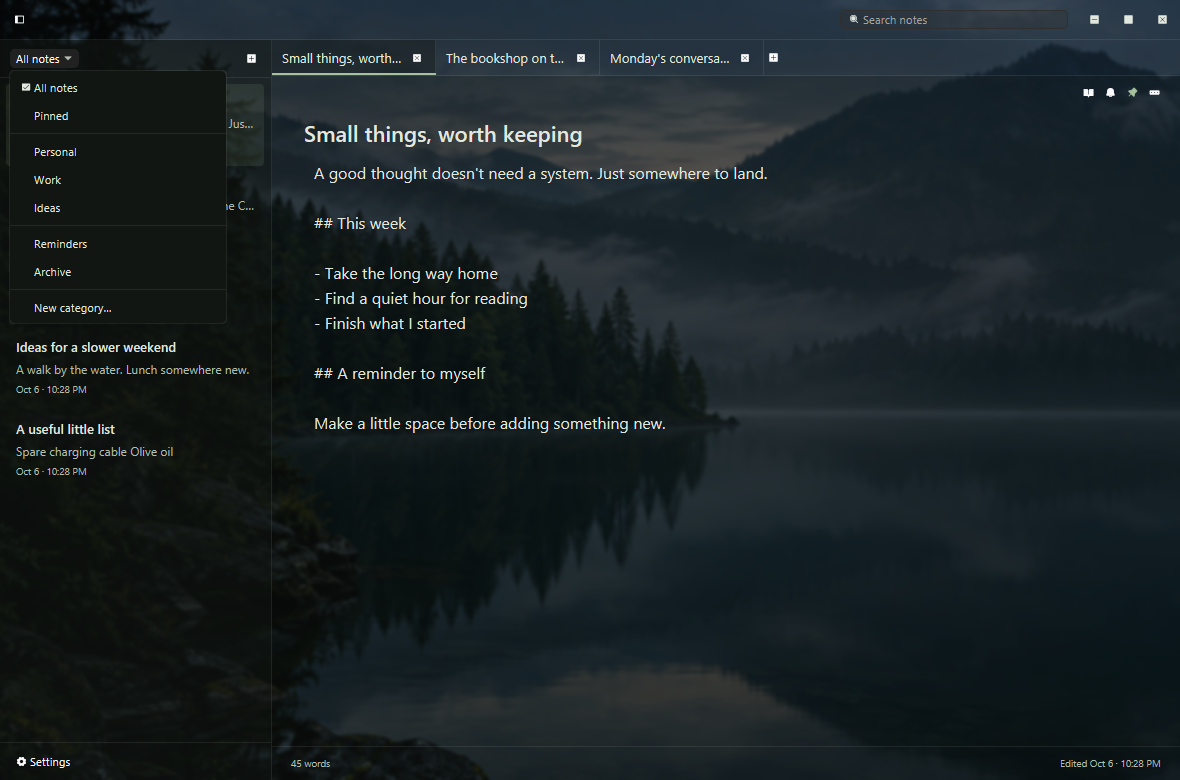
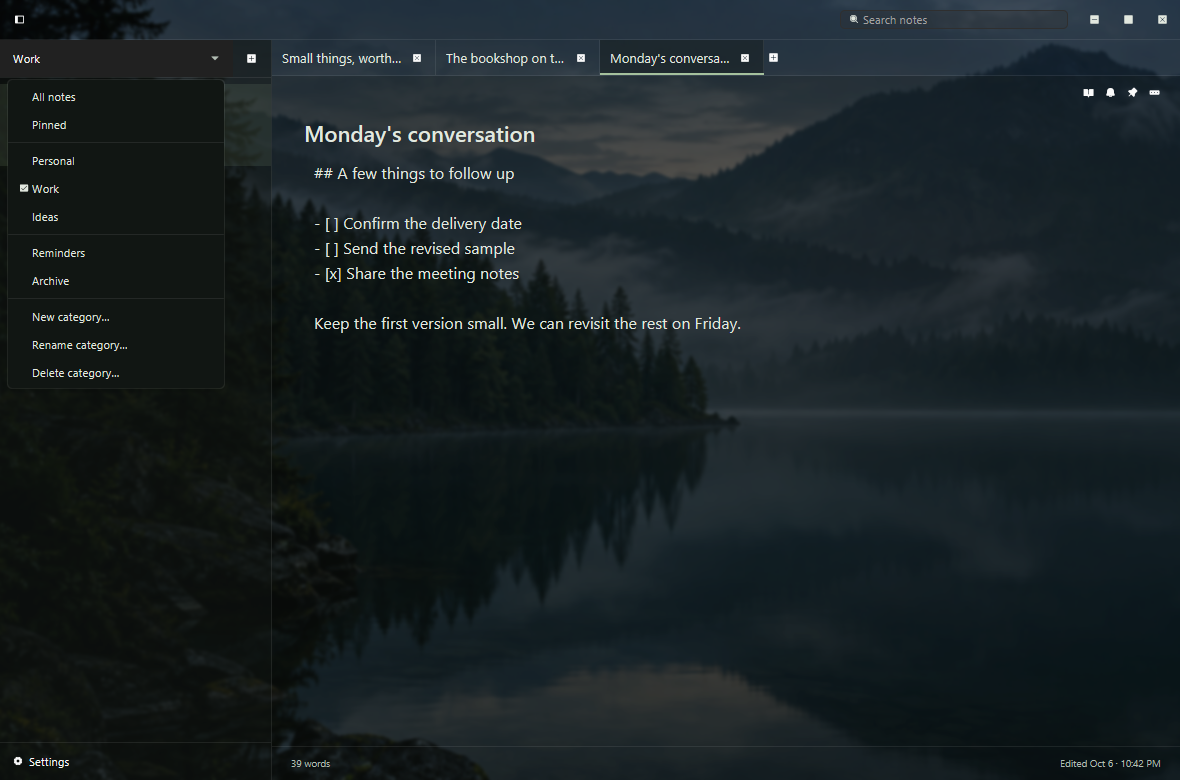
fix: fill sidebar rows and controls across their width

diff --git a/tests/ui.rs b/tests/ui.rs
@@ -10,6 +10,140 @@ use still::{
 };
 
 #[gpui_kit::test]
+fn short_and_long_notes_fill_the_sidebar_and_accept_edge_clicks(cx: &mut TestAppContext) {
+    cx.dispatcher.allow_parking();
+    let path =
+        std::env::temp_dir().join(format!("still-row-width-{}.sqlite", uuid::Uuid::new_v4()));
+    let ids = {
+        let db = Database::open(&path).expect("database");
+        [
+            "A",
+            "A much longer note title that must truncate inside the sidebar",
+        ]
+        .map(|title| {
+            let mut note = still::models::Note::new(still::models::NoteType::Normal);
+            note.title = title.into();
+            db.save_note(&note).expect("note");
+            note.id
+        })
+    };
+    let (store, _, _, _) = Store::start(path.clone()).expect("worker");
+    cx.update(gpui_kit::init);
+    let state = cx.new(|cx| {
+        AppState::new(
+            store.clone(),
+            Settings {
+                default_wallpaper: false,
+                reduced_motion: true,
+                ..Settings::default()
+            },
+            Session::default(),
+            cx,
+        )
+    });
+    let (handle, _) = cx.update(|cx| {
+        gpui_kit::open_window(WindowOptions::default(), cx, |window, cx| {
+            cx.new(|cx| AppWindow::new(state.clone(), window, cx))
+        })
+        .expect("window")
+    });
+    store
+        .request(Request::Categories)
+        .recv_blocking()
+        .expect("load barrier")
+        .expect("categories");
+    cx.run_until_parked();
+    for id in ids {
+        cx.update_window(handle, |_, window, cx| {
+            window.render_frame(cx);
+            let list = window.find("note-list").bounds();
+            let row_id = gpui_kit::SharedString::from(format!("note-{id}"));
+            let row = window.find(row_id.clone()).bounds();
+            assert!((row.left() - list.left()).abs() < gpui_kit::px(1.));
+            assert!(
+                (row.right() - list.right()).abs() < gpui_kit::px(1.),
+                "Every row must fill the sidebar, even with a short title: {row:?} / {list:?}"
+            );
+            window.click_at(
+                row_id,
+                gpui_kit::point(row.size.width - gpui_kit::px(3.), gpui_kit::px(20.)),
+                cx,
+            );
+        })
+        .expect("full-width row");
+        cx.run_until_parked();
+        assert_eq!(
+            state.read_with(cx, |state, _| state.session.active.clone()),
+            Some(id)
+        );
+    }
+    cx.update_window(handle, |_, window, cx| {
+        window.render_frame(cx);
+        let header = window.find("notes-header").bounds();
+        let picker = window.find("category-picker").bounds();
+        let create = window.find("new-sidebar-note").bounds();
+        assert!((picker.left() - header.left()).abs() < gpui_kit::px(1.));
+        assert!((picker.right() - create.left()).abs() < gpui_kit::px(1.));
+        window.click_at(
+            "category-picker",
+            gpui_kit::point(picker.size.width - gpui_kit::px(3.), gpui_kit::px(16.)),
+            cx,
+        );
+        window.render_frame(cx);
+        let menu = window.find("popup-menu").bounds();
+        for index in [0usize, 1, 3, 4, 5, 7, 8, 10] {
+            let row = window.within("popup-menu").find(index).bounds();
+            assert!((menu.right() - row.right()).abs() <= gpui_kit::px(5.));
+            assert!((row.left() - menu.left()).abs() <= gpui_kit::px(5.));
+        }
+        window.press("escape", cx);
+        window.render_frame(cx);
+        let footer = window.find("notes-footer").bounds();
+        let settings = window.find("sidebar-settings").bounds();
+        assert!((settings.left() - footer.left()).abs() < gpui_kit::px(1.));
+        assert!((settings.right() - footer.right()).abs() < gpui_kit::px(1.));
+        window.click_at(
+            "sidebar-settings",
+            gpui_kit::point(settings.size.width - gpui_kit::px(3.), gpui_kit::px(16.)),
+            cx,
+        );
+        window.render_frame(cx);
+        let sidebar = window.find("settings-sidebar").bounds();
+        for name in [
+            "General",
+            "Reminders",
+            "Appearance",
+            "Background",
+            "Floating bar",
+            "Shortcuts",
+            "Advanced",
+            "close-settings",
+        ] {
+            let row = window.find(name).bounds();
+            assert!((row.left() - sidebar.left()).abs() < gpui_kit::px(1.));
+            assert!((row.right() - sidebar.right()).abs() <= gpui_kit::px(1.));
+        }
+        let row = window.find("Appearance").bounds();
+        window.click_at(
+            "Appearance",
+            gpui_kit::point(row.size.width - gpui_kit::px(3.), gpui_kit::px(16.)),
+            cx,
+        );
+    })
+    .expect("full-width navigation controls");
+    assert_eq!(
+        state.read_with(cx, |state, _| state.settings_page.clone()),
+        Some("Appearance".into())
+    );
+    store
+        .request(Request::Shutdown)
+        .recv_blocking()
+        .expect("shutdown")
+        .expect("flush");
+    std::fs::remove_file(path).expect("cleanup");
+}
+
+#[gpui_kit::test]
 fn closing_empty_drafts_discards_them_without_reopening_or_late_saves(cx: &mut TestAppContext) {
     cx.dispatcher.allow_parking();
     let path = std::env::temp_dir().join(format!("still-empty-{}.sqlite", uuid::Uuid::new_v4()));

diff --git a/src/ui/app_window.rs b/src/ui/app_window.rs
@@ -307,11 +307,12 @@ impl AppWindow {
         let app = self.state.read(cx);
         let mut list = div()
             .id("note-list")
+            .test_support()
             .v_flex()
+            .w_full()
             .flex_1()
             .min_h_0()
             .overflow_hidden()
-            .px_2()
             .py_2();
         if !app.summaries.is_empty() {
             let list_state = self.state.clone();
@@ -362,12 +363,13 @@ impl AppWindow {
                             rows.push(
                                 div()
                                     .id(SharedString::from(format!("note-{}", note.id)))
+                                    .test_support()
                                     .v_flex()
+                                    .w_full()
                                     .h(px(82.))
                                     .gap_1()
-                                    .px_3()
+                                    .px_4()
                                     .py_2()
-                                    .rounded(px(4.))
                                     .cursor_pointer()
                                     .when(selected, |row| row.bg(p.selected))
                                     .hover(|row| row.bg(p.selected))
@@ -401,6 +403,7 @@ impl AppWindow {
                     },
                 )
                 .track_scroll(&self.list_scroll)
+                .w_full()
                 .flex_1()
                 .min_h_0(),
             );
@@ -428,17 +431,24 @@ impl AppWindow {
                     .id("notes-header")
                     .test_support()
                     .h(px(38.))
-                    .px_3()
                     .flex()
                     .items_center()
                     .justify_between()
                     .border_b_1()
                     .border_color(p.line)
-                    .child(super::categories::picker(self.state.clone(), cx))
+                    .child(super::categories::picker(
+                        self.state.clone(),
+                        width - 39.,
+                        cx,
+                    ))
                     .child(
                         Button::new("new-sidebar-note")
                             .ghost()
                             .small()
+                            .h_full()
+                            .w(px(38.))
+                            .flex_shrink_0()
+                            .rounded(ButtonRounded::None)
                             .icon(IconName::Plus)
                             .tooltip("New note")
                             .on_click({
@@ -454,19 +464,32 @@ impl AppWindow {
             .child(list)
             .child(
                 div()
+                    .id("notes-footer")
+                    .test_support()
                     .h(px(38.))
                     .flex_shrink_0()
                     .border_t_1()
                     .border_color(p.line)
                     .flex()
                     .items_center()
-                    .px_3()
                     .child(
                         Button::new("sidebar-settings")
                             .ghost()
                             .small()
-                            .icon(IconName::Settings)
-                            .label("Settings")
+                            .w_full()
+                            .h_full()
+                            .px_4()
+                            .rounded(ButtonRounded::None)
+                            .accessibility_label("Settings")
+                            .child(
+                                div()
+                                    .w_full()
+                                    .flex()
+                                    .items_center()
+                                    .gap_2()
+                                    .child(Icon::new(IconName::Settings).size_3())
+                                    .child("Settings"),
+                            )
                             .on_click({
                                 let state = self.state.clone();
                                 move |_, _, cx| {

diff --git a/src/ui/settings.rs b/src/ui/settings.rs
@@ -416,18 +416,19 @@ impl Render for SettingsView {
             .clone()
             .unwrap_or("General".into());
         let mut nav = div()
+            .id("settings-sidebar")
+            .test_support()
             .w(px(208.))
             .flex_shrink_0()
             .v_flex()
             .gap_1()
-            .px_3()
             .py_4()
             .border_r_1()
             .border_color(p.line)
             .bg(p.canvas)
             .child(
                 div()
-                    .px_2()
+                    .px_4()
                     .text_size(px(13.))
                     .font_semibold()
                     .child("Settings"),
@@ -435,7 +436,7 @@ impl Render for SettingsView {
         for (group, sections) in NAVIGATION {
             nav = nav.child(
                 div()
-                    .px_2()
+                    .px_4()
                     .mt_4()
                     .mb_1()
                     .text_size(px(10.))
@@ -452,7 +453,8 @@ impl Render for SettingsView {
                         .accessibility_label(name)
                         .w_full()
                         .h(px(32.))
-                        .px_2()
+                        .px_4()
+                        .rounded(ButtonRounded::None)
                         .child(
                             div()
                                 .id(format!("settings-nav-{name}"))
@@ -489,6 +491,8 @@ impl Render for SettingsView {
             Button::new("close-settings")
                 .ghost()
                 .w_full()
+                .px_4()
+                .rounded(ButtonRounded::None)
                 .accessibility_label("Back to notes")
                 .child(
                     div()

diff --git a/src/ui/categories.rs b/src/ui/categories.rs
@@ -14,19 +14,32 @@ use gpui_kit::{
     *,
 };
 
-pub fn picker(state: Entity<AppState>, cx: &App) -> impl IntoElement {
+pub fn picker(state: Entity<AppState>, width: f32, cx: &App) -> impl IntoElement {
     let label = state.read(cx).category_label().to_owned();
     let p = crate::theme::palette(cx);
     Button::new("category-picker")
         .ghost()
         .small()
-        .label(label)
+        .w(px(width.max(0.)))
+        .min_w_0()
+        .h(px(37.))
+        .px_4()
         .child(
-            Icon::new(IconName::ChevronDown)
-                .size_3()
-                .text_color(p.muted),
+            div()
+                .w_full()
+                .flex()
+                .items_center()
+                .justify_between()
+                .gap_2()
+                .child(div().min_w_0().truncate().child(label.clone()))
+                .child(
+                    Icon::new(IconName::ChevronDown)
+                        .size_3()
+                        .text_color(p.muted),
+                ),
         )
-        .rounded(px(5.))
+        .accessibility_label(label)
+        .rounded(ButtonRounded::None)
         .tooltip("Categories")
         .dropdown_menu(move |menu, _, cx| category_menu(menu, state.clone(), cx))
 }

diff --git a/docs/validation.md b/docs/validation.md
@@ -5,7 +5,7 @@ toolchain. The executable uses native GPUI rendering, not a browser.
 
 ## Checks
 
-- `cargo test --locked --features ui-testing`: 30 passing tests.
+- `cargo test --locked --features ui-testing`: 31 passing tests.
 - `cargo clippy --locked --features ui-testing --all-targets -- -D warnings`: clean.
 - `cargo fmt -- --check`: clean.
 - `cargo build --locked --release`: successful; UI testing features excluded.
@@ -18,7 +18,13 @@ toolchain. The executable uses native GPUI rendering, not a browser.
   [results](screenshots/results.png), [editor](screenshots/note.png),
   [reminder](screenshots/reminder.png) and [appearance](screenshots/settings.png).
 - Normal Windows launches and restored sessions were checked for callback errors.
-- Packaged Still 0.2.2 starts and flushes a graceful shutdown with a clean release log.
+- Packaged Still 0.2.3 starts and flushes a graceful shutdown with a clean release log.
+
+The 0.2.3 note rows span the full notes pane. GPUI checks verify identical row
+edges for short and long titles and selection by clicking near the right edge.
+The category trigger, bottom Settings button and preferences navigation also
+fill their available width. Checks cover their bounds, right-edge clicks and
+full-width dropdown items. Hover and selection use the same full-width targets.
 
 The 0.2.2 GPUI checks exercise the relocated category picker, left-aligned
 preferences labels, the actual font slider and rendered line height, repeated
@@ -61,7 +67,7 @@ fail; the original code was restored before the final suite.
 
 ## Measurements
 
-Still 0.2.2 release executable: 31,089,664 bytes (29.65 MiB), including its local wallpaper.
+Still 0.2.3 release executable: 31,092,736 bytes (29.65 MiB), including its local wallpaper.
 The performance samples below were collected with 0.2.0.
 
 | Measurement | Result |
